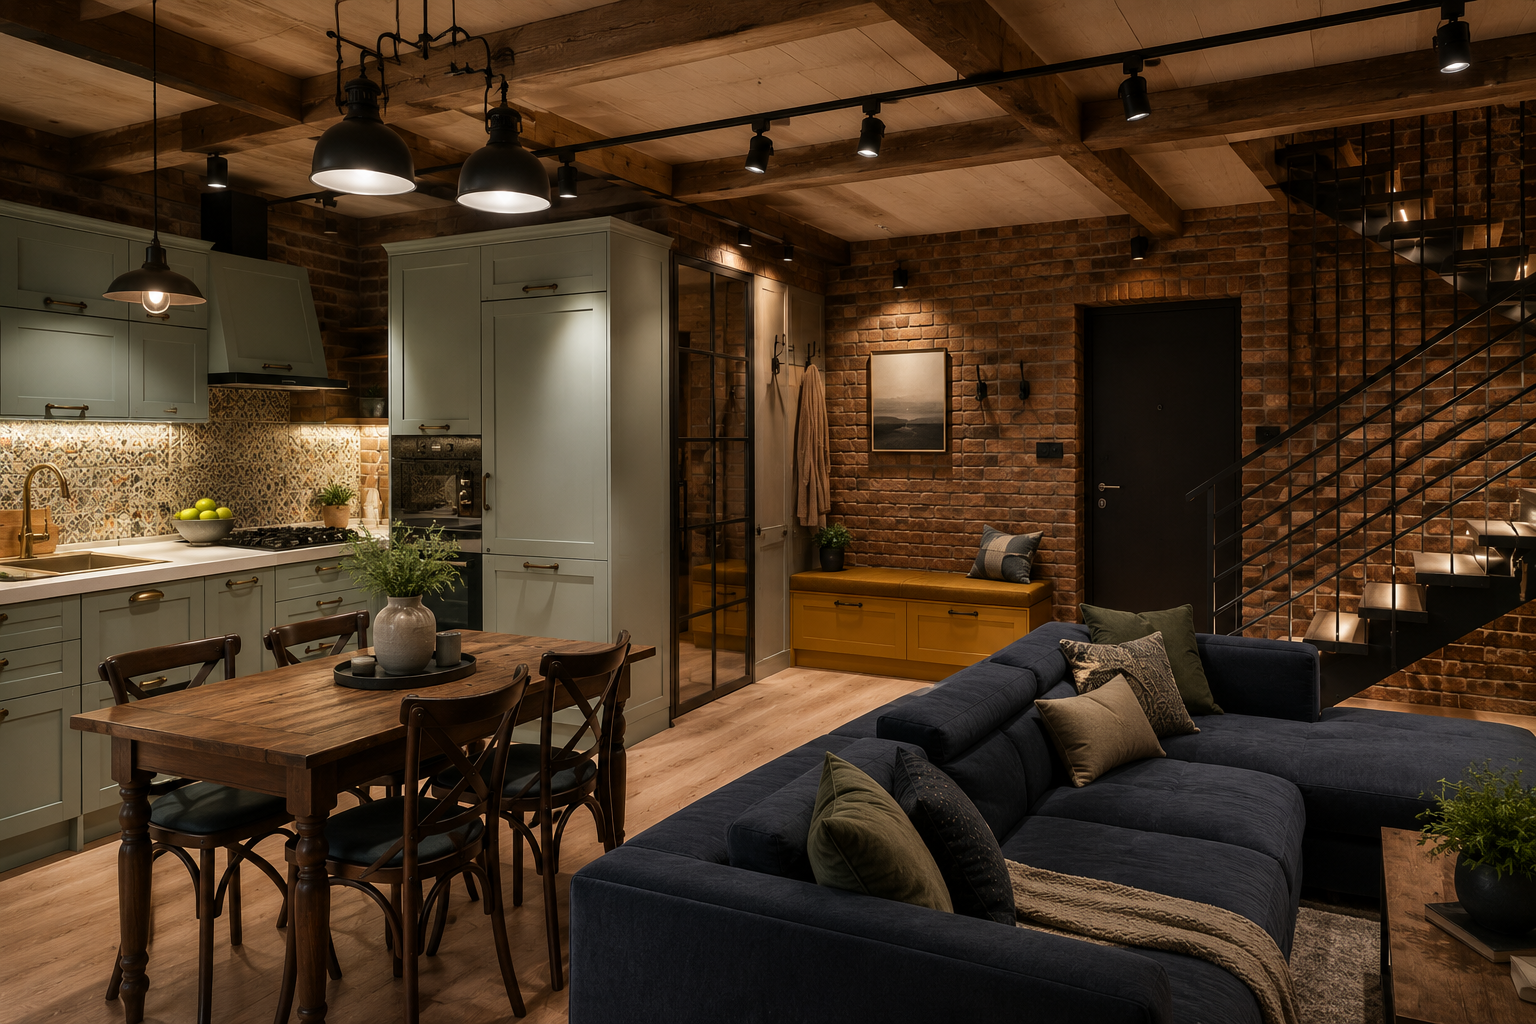
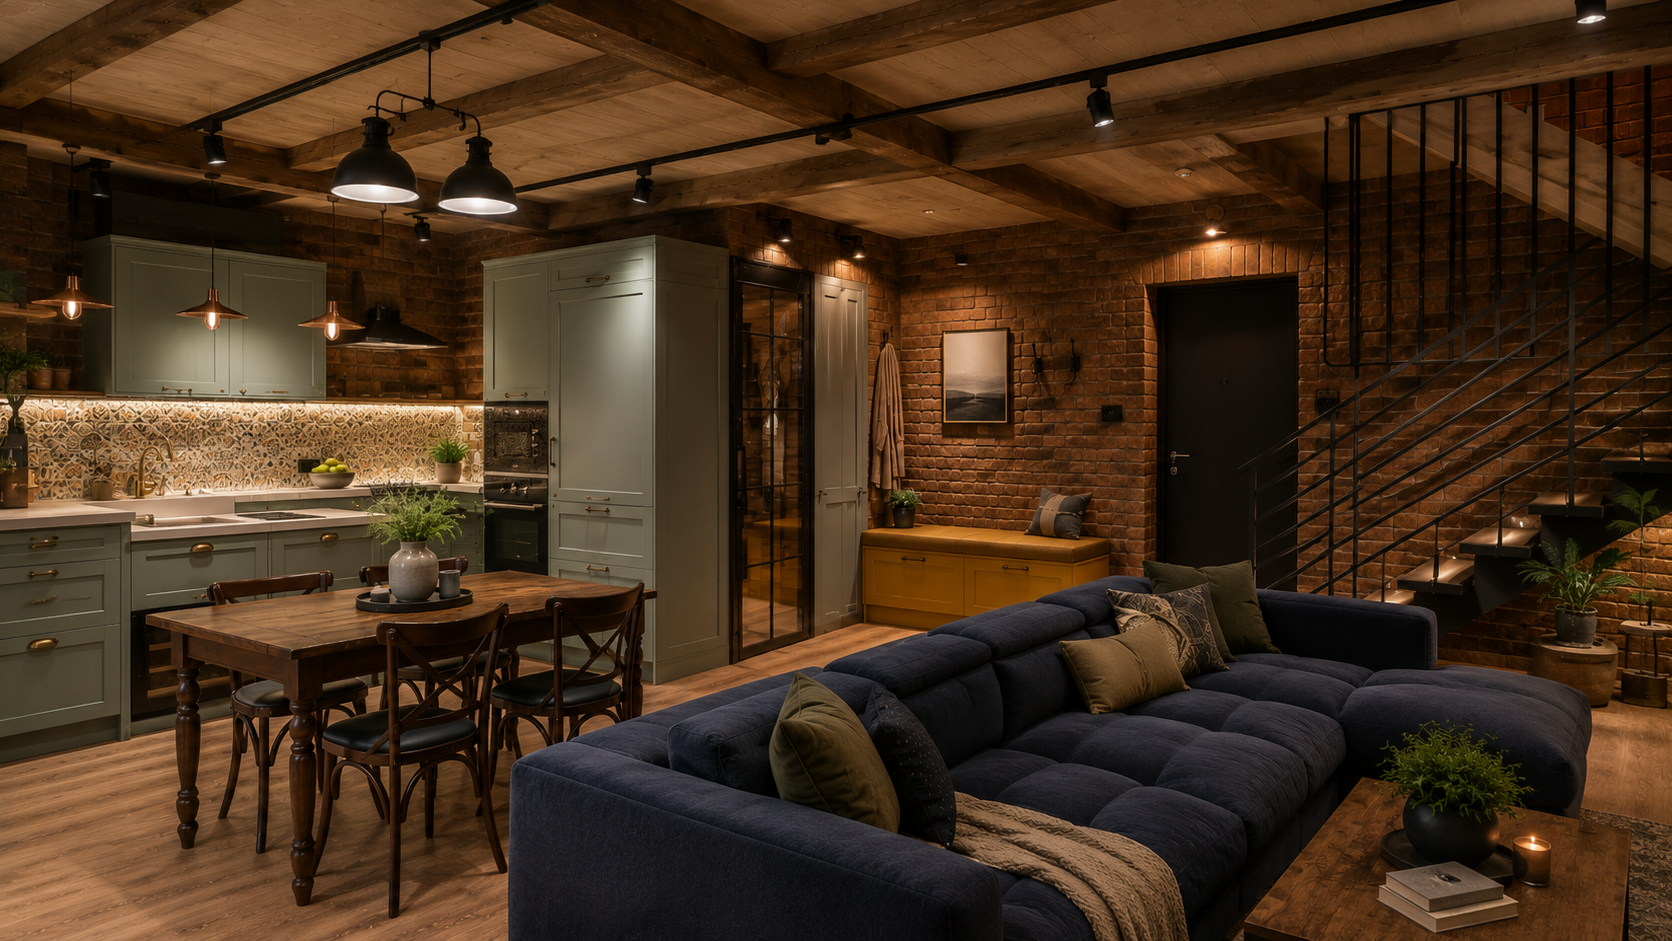
Restaura carrossel lateral e imagens atualizadas

diff --git a/css/estilo.css b/css/estilo.css
@@ -56,7 +56,7 @@ body{
 
 .menuLogo img{
 	display: block;
-	width: 150px;
+	width: 156px;
 	height: auto;
 }
 
@@ -92,12 +92,13 @@ body{
 	outline: 0;
 }
 
+/*aumentar tamanho da imagem do carrossel */
+
 .conteudoPrincipal{
 	margin: 0 auto;
 	padding: 0 0 24px;
 	text-align: center;
-	width: min(calc(70% + 15px), 100%);
-	max-width: 1280px;
+	width: min(calc(76% + 15px), 100%);
 }
 
 .paginaVazia{
@@ -105,8 +106,8 @@ body{
 }
 
 
-
-#moldura{
+/* imagem do carrossel*/
+#moldura{  
 	display: block;
 	margin: 0 auto;
 	max-width: 100%;
@@ -115,10 +116,26 @@ body{
 	transition: opacity 180ms ease;
 }
 
+/* Layout inferior (comentado — descomente junto com o HTML para voltar)
 .grupoBotao{
 	margin: 0 auto;
 	padding-top: 16px;
-	text-align: center;	
+	text-align: center;
+}
+*/
+
+/* Layout lateral (ativo) */
+.carrosselLateral{
+	display: flex;
+	align-items: center;
+	justify-content: center;
+	gap: 12px;
+}
+
+.carrosselLateral #moldura{
+	flex: 1;
+	min-width: 0;
+	margin: 0;
 }
 
 

diff --git a/index.html b/index.html
@@ -27,11 +27,22 @@
 		</nav>
 
 		<main class="conteudoPrincipal">
+
+			<!-- Layout lateral (ativo) -->
+			<section class="carrosselLateral">
+				<button id="btnVoltar" class="botao" type="button" aria-label="Tela anterior">&lt;</button>
+				<img id="moldura" src="img/quadro1.png" alt="Tela do carrossel Spinola">
+				<button id="btnAvancar" class="botao" type="button" aria-label="Proxima tela">&gt;</button>
+			</section>
+
+			<!-- Layout inferior — descomente e comente o bloco acima para voltar
 			<img id="moldura" src="img/quadro1.png" alt="Tela do carrossel Spinola">
 			<section class="grupoBotao">
 				<button id="btnVoltar" class="botao" type="button" aria-label="Tela anterior">&lt;</button>
 				<button id="btnAvancar" class="botao" type="button" aria-label="Proxima tela">&gt;</button>
-			</section>		
+			</section>
+			-->
+
 		</main>
 
 		<section class="oQueFazemos">

diff --git a/js/acao.js b/js/acao.js
@@ -1,6 +1,7 @@
 const telas = [
 	"img/quadro1.png",
-	"img/quadro2.png"
+	"img/quadro2.png",
+	"img/quadro3.png"
 ];
 
 let telaAtual = 0;
@@ -11,12 +12,7 @@ const btnAvancar = document.getElementById("btnAvancar");
 
 function mostrarTela(indice) {
 	telaAtual = (indice + telas.length) % telas.length;
-	moldura.style.opacity = "0";
-
-	setTimeout(function () {
-		moldura.src = telas[telaAtual];
-		moldura.style.opacity = "1";
-	}, 180);
+	moldura.src = telas[telaAtual];
 }
 
 btnVoltar.addEventListener("click", function () {
